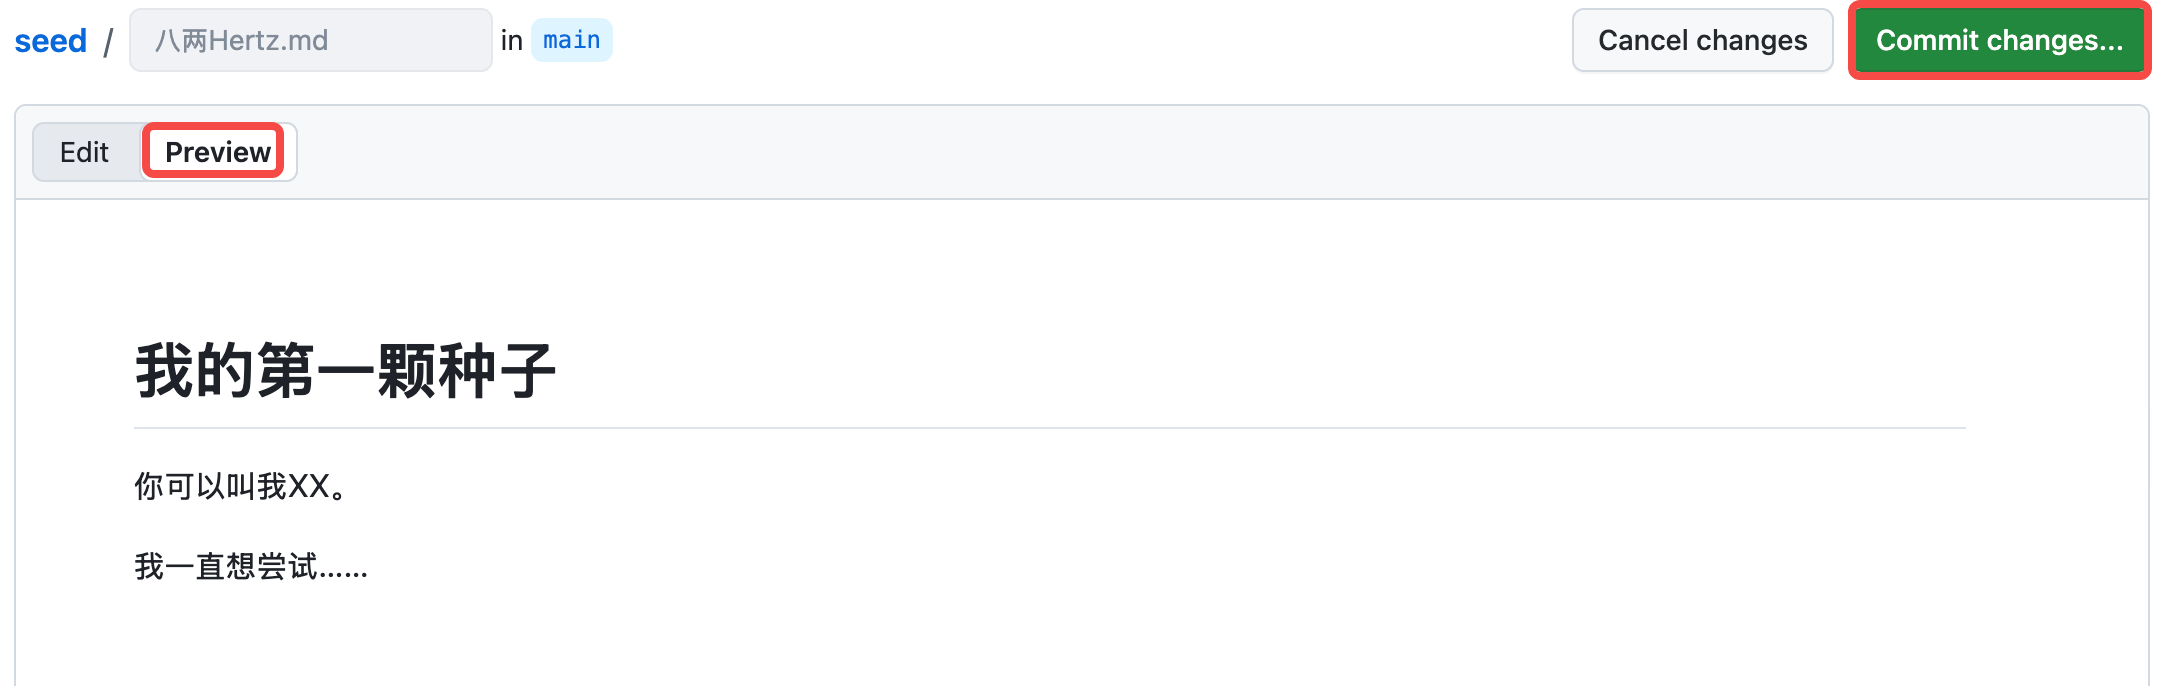
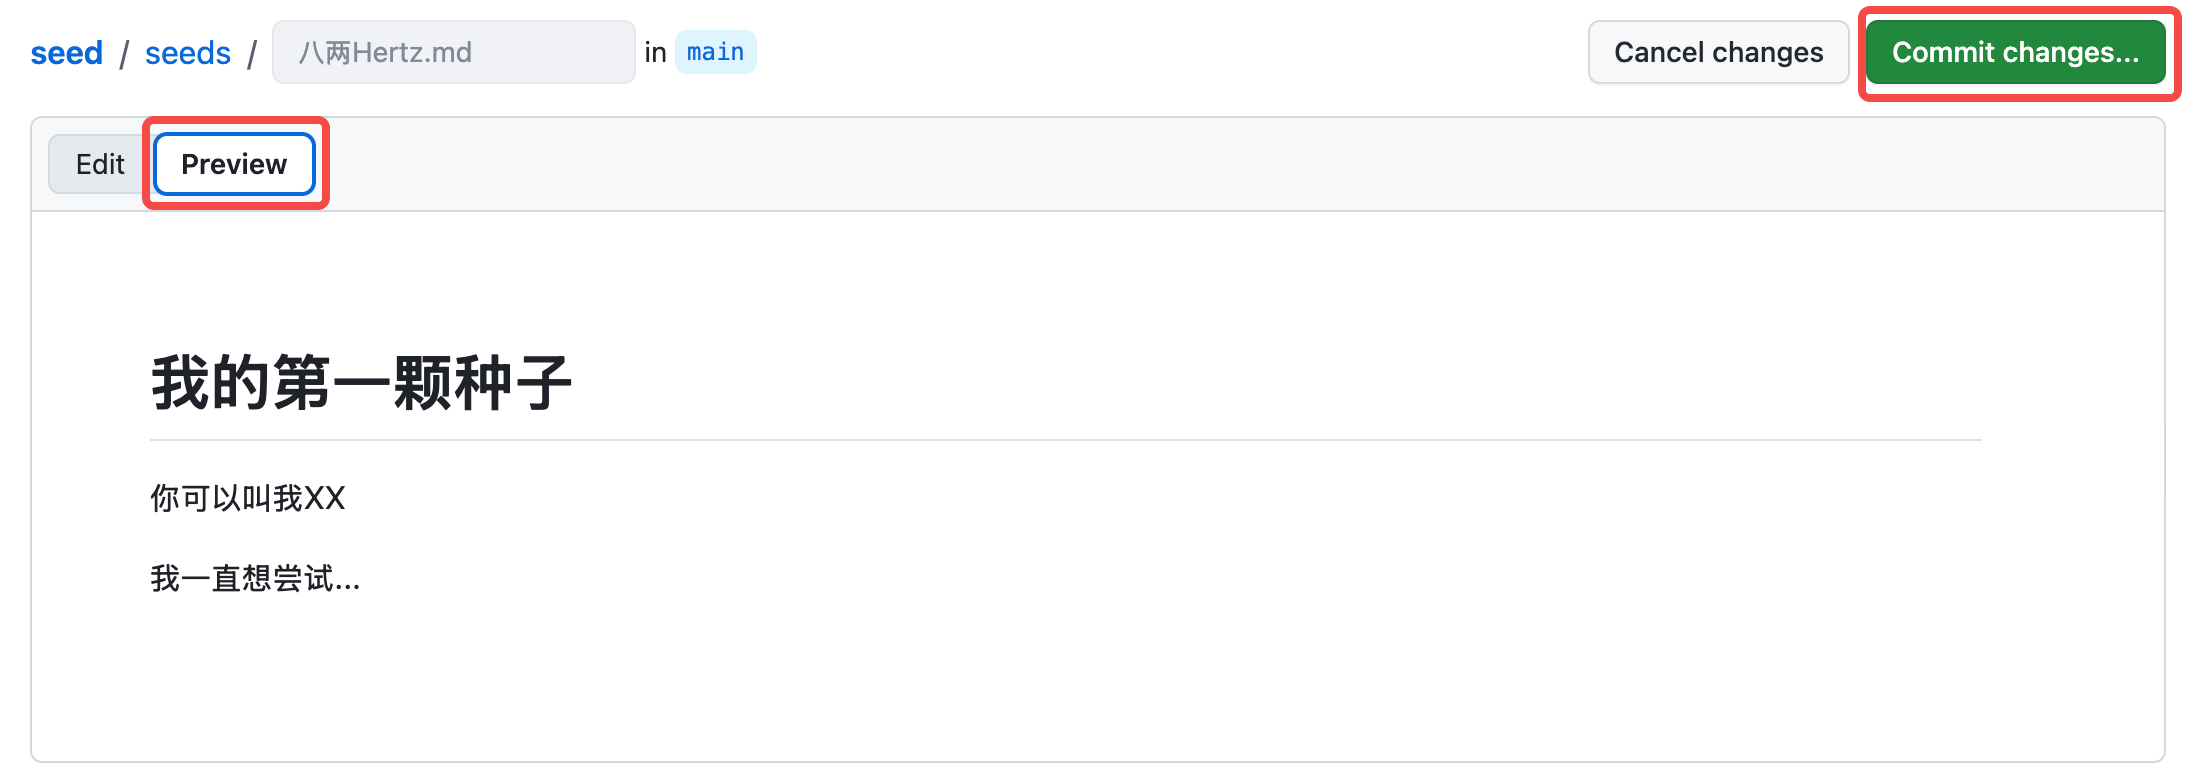
更新人工教程和文件路径截图

diff --git a/GUIDE.md b/GUIDE.md
@@ -46,7 +46,7 @@
 1. 在副本首页，点击 **Add file → Create new file**按钮。窗口窄时按钮可能收进菜单，试着放大窗口。
 
    ![在副本首页打开 Add file 菜单，选择 Create new file](assets/images/create.png)
-2. 在文件名输入框填写 `seeds/你的GitHub用户名或昵称.md`，假设用户名或昵称是 `八两Hertz`，就写 `八两Hertz.md`，并且撰写正文。`# `（井号后加一个空格）会把这一行变成标题，切换段落的话，在文字之间空一行即可。
+2. 在文件名输入框填写 `seeds/你的GitHub用户名或昵称.md`，假设昵称是 `八两Hertz`，就写 `seeds/八两Hertz.md`，并且撰写正文。`# `（井号后加一个空格）会把这一行变成标题，切换段落的话，在文字之间空一行即可。
 ![编辑 Markdown 文件：填写文件名和自己的文字](assets/images/create2.png)
 
 3. 点击 **Preview** 可以看到排版，点击 **Commit changes…** 提交修改。
